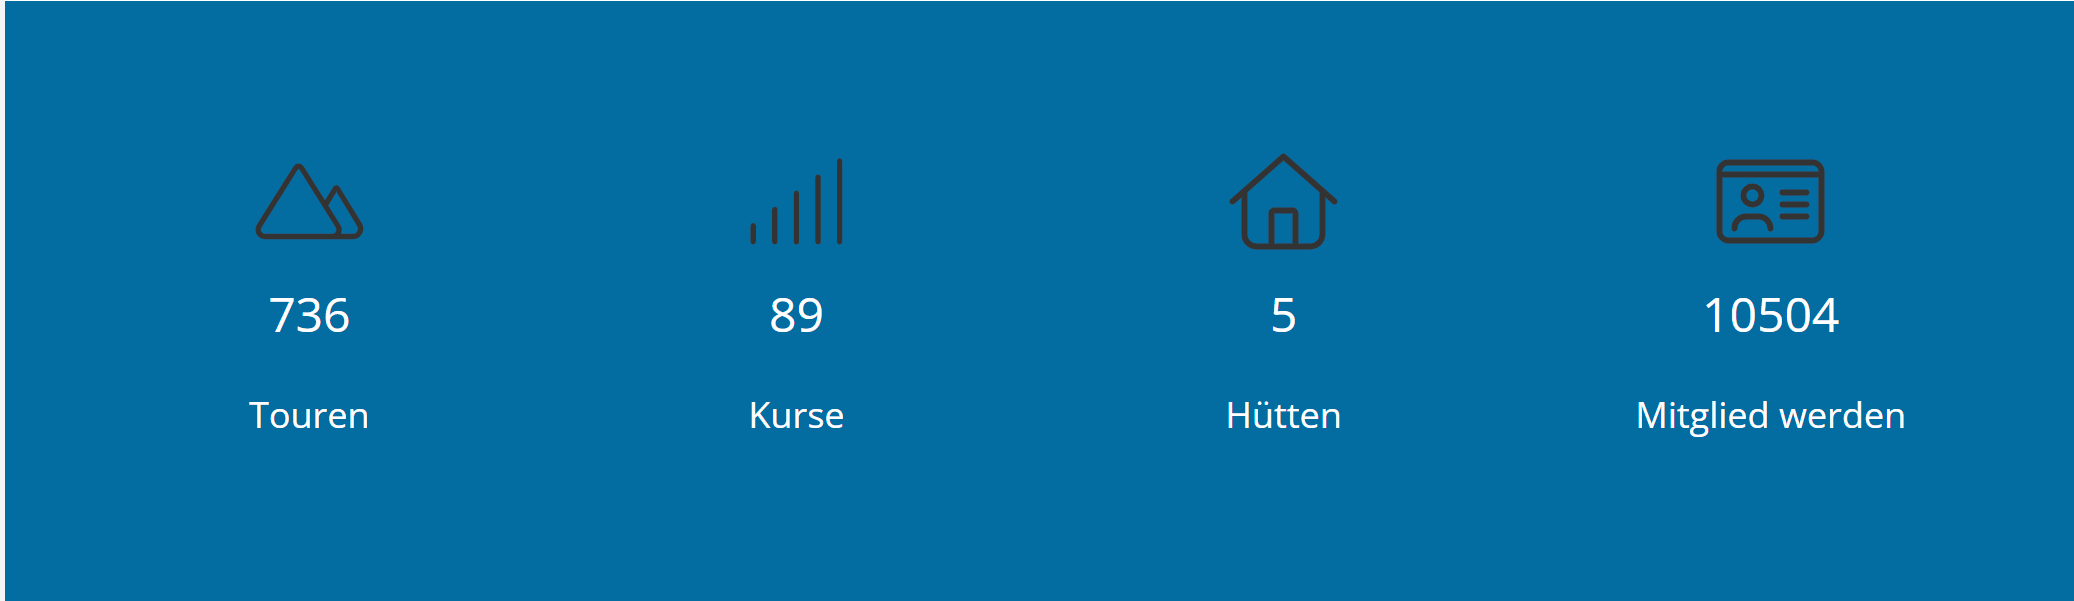
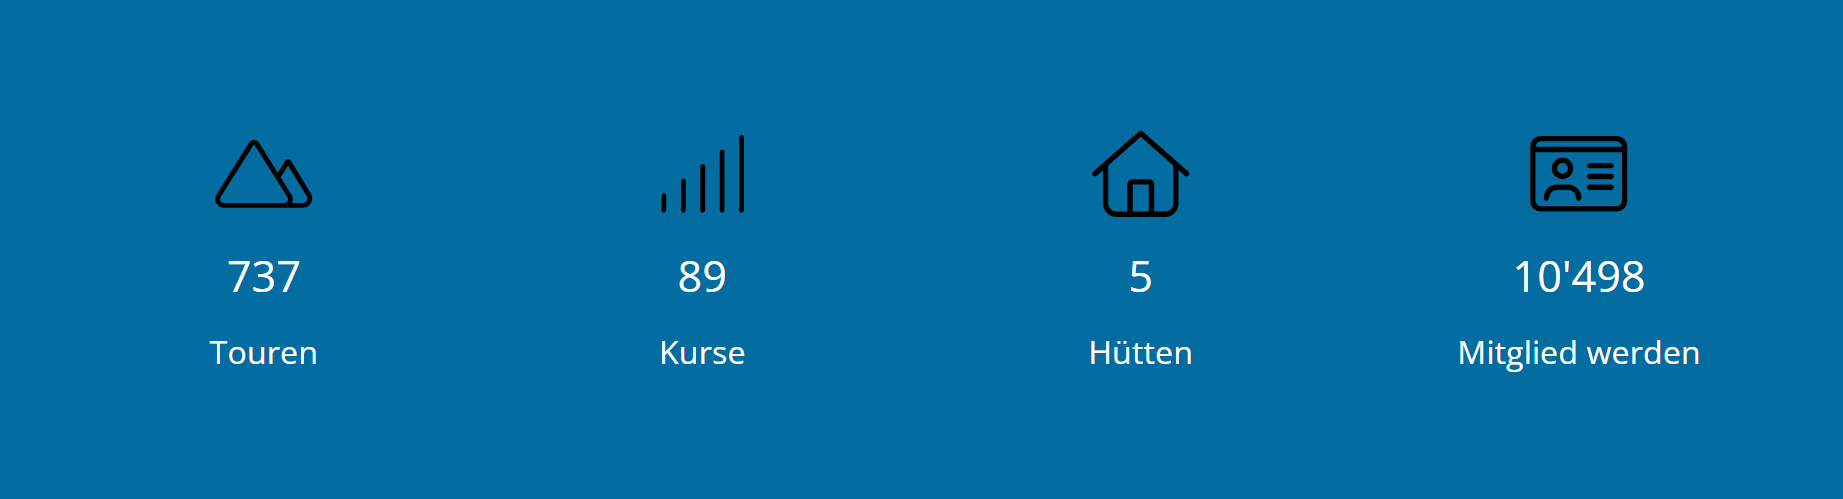
Update the Readme.md

diff --git a/README.md b/README.md
@@ -3,9 +3,9 @@
 # Contao Service Links
 ![Frontend](docs/frontend.png)
 
-This extension for Contao CMS offers a content element with which service 
-links can be placed on your website. FontAwesome icons can be selected as icons. 
-In addition to the title and text, a counter can also be added.
+This extension for [Contao CMS](https://contao.org) offers a content element with which service 
+links can be placed on your website. [FontAwesome](https://fontawesome.com/) icons can be selected in the backend. 
+In addition to the title and the text, a [counter](https://inorganik.github.io/countUp.js) can also be added to your website.
 
 ## Backend
 ![Frontend](docs/backend.png)
